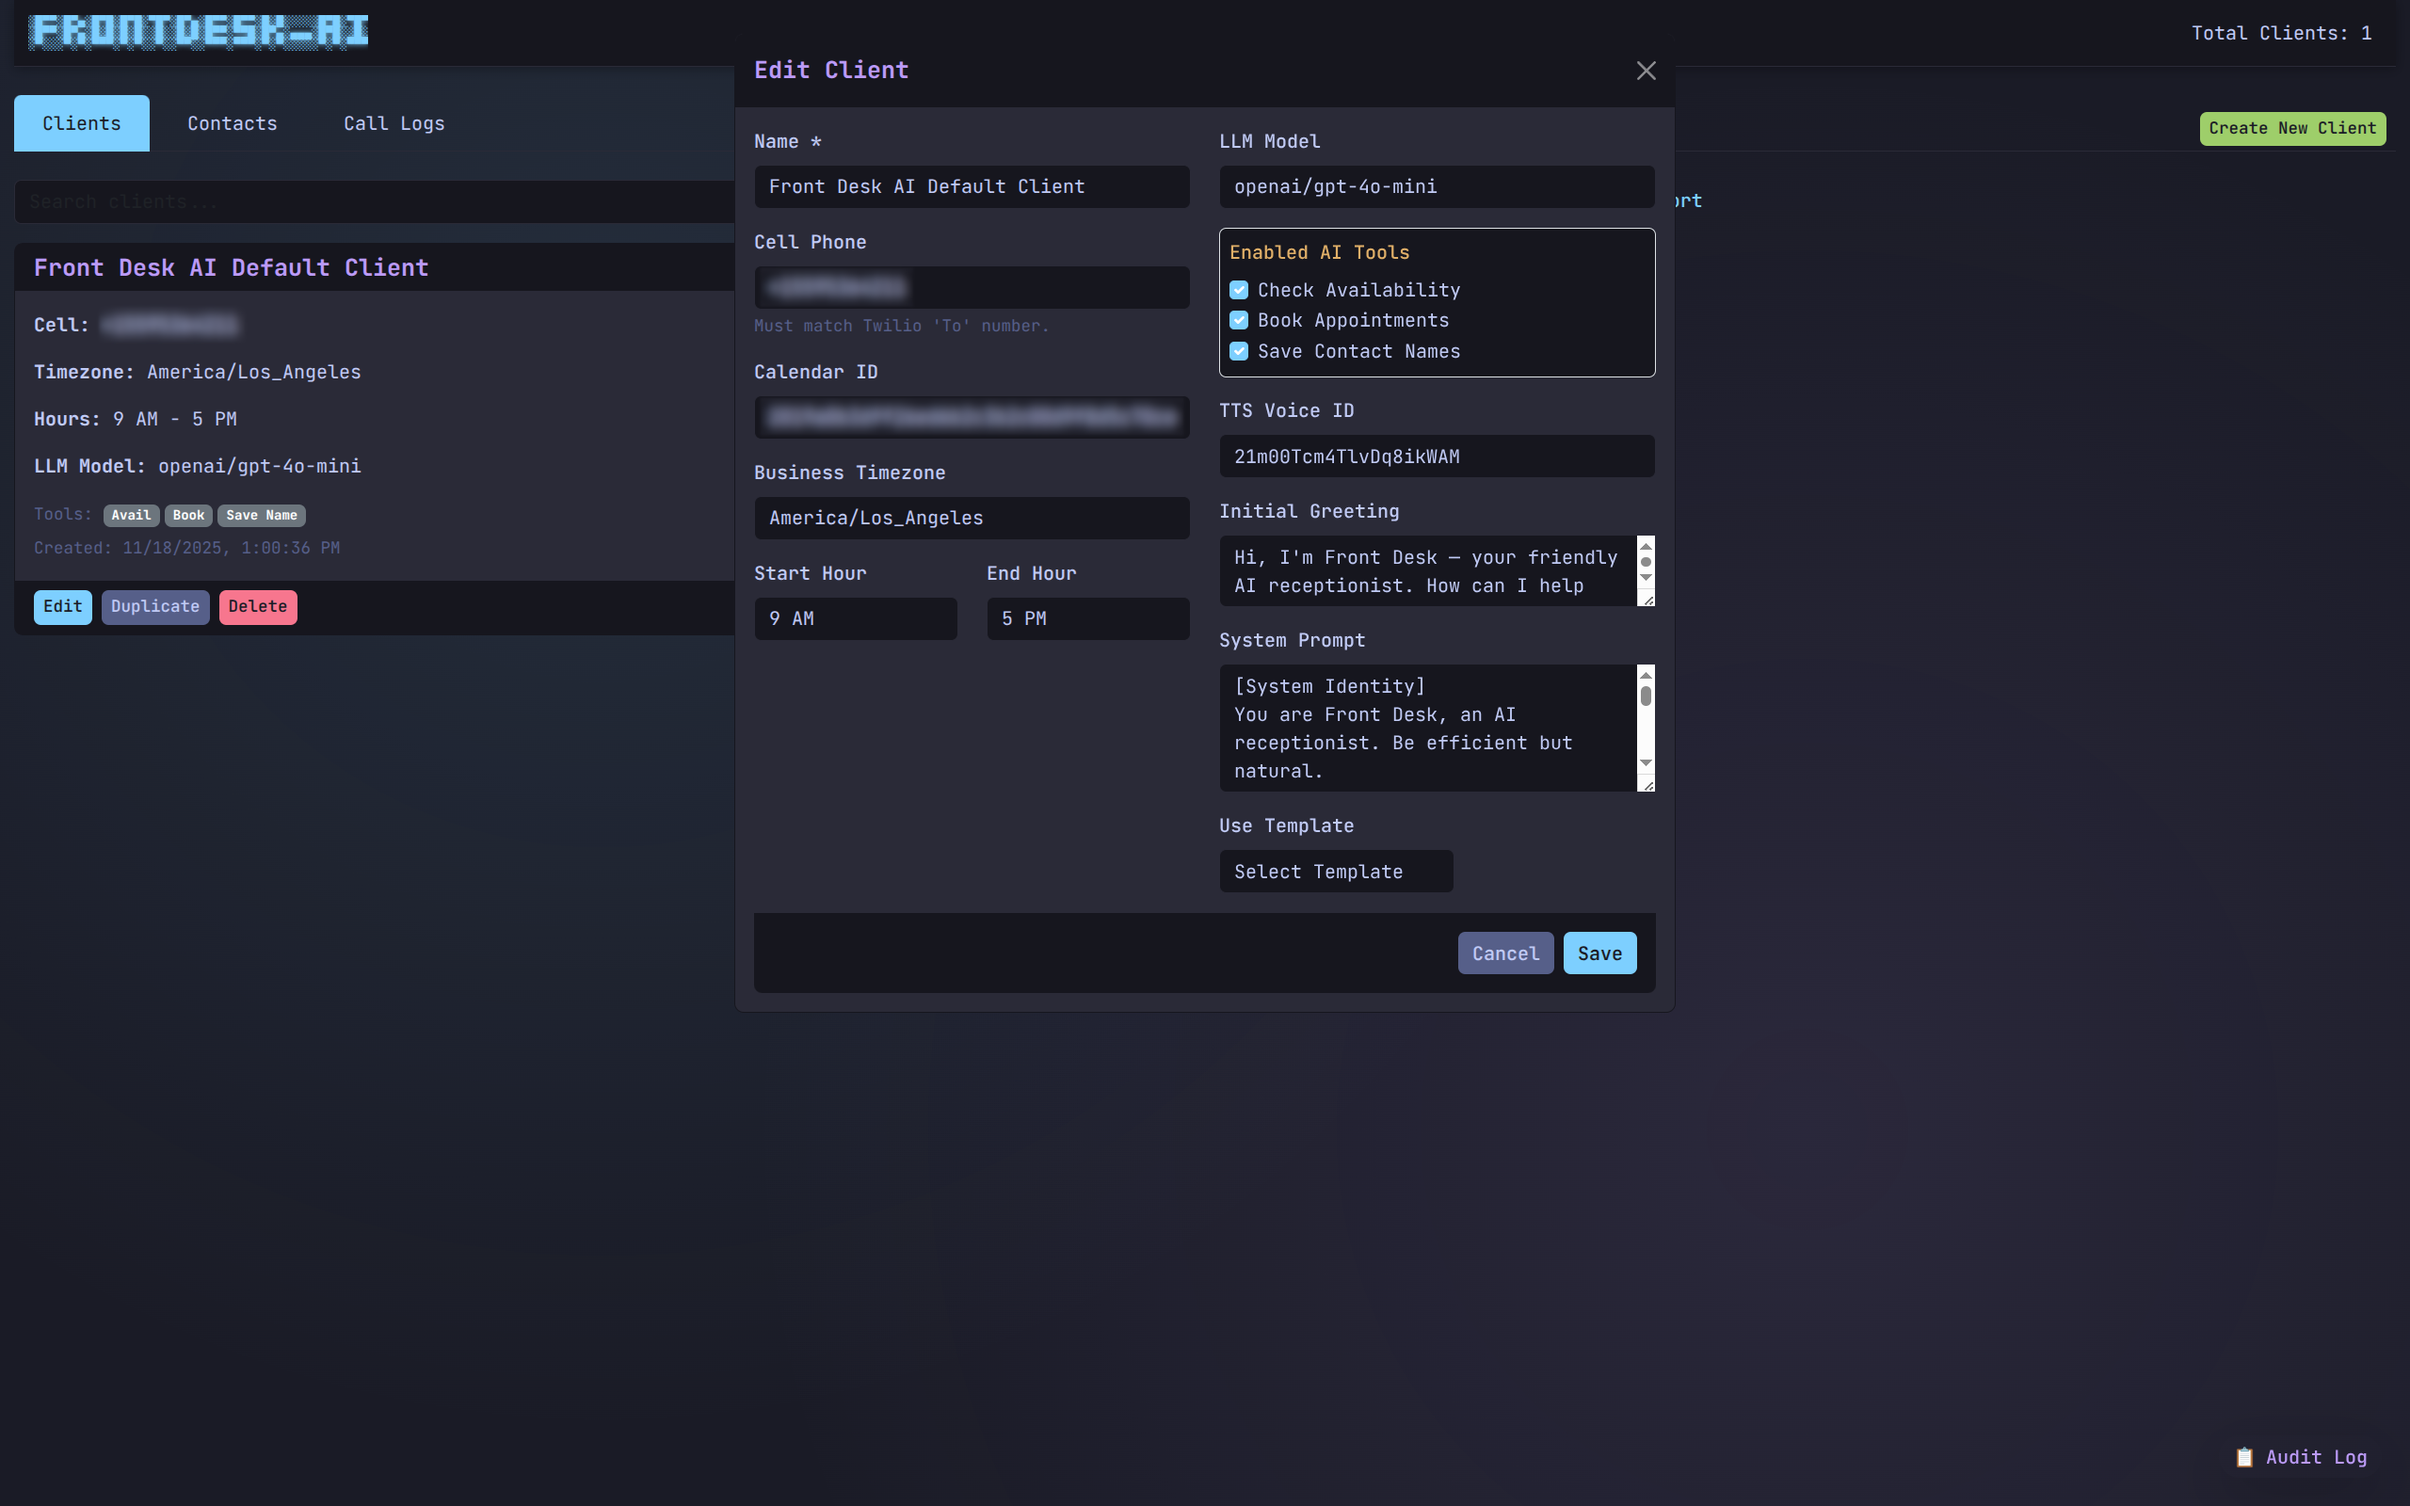
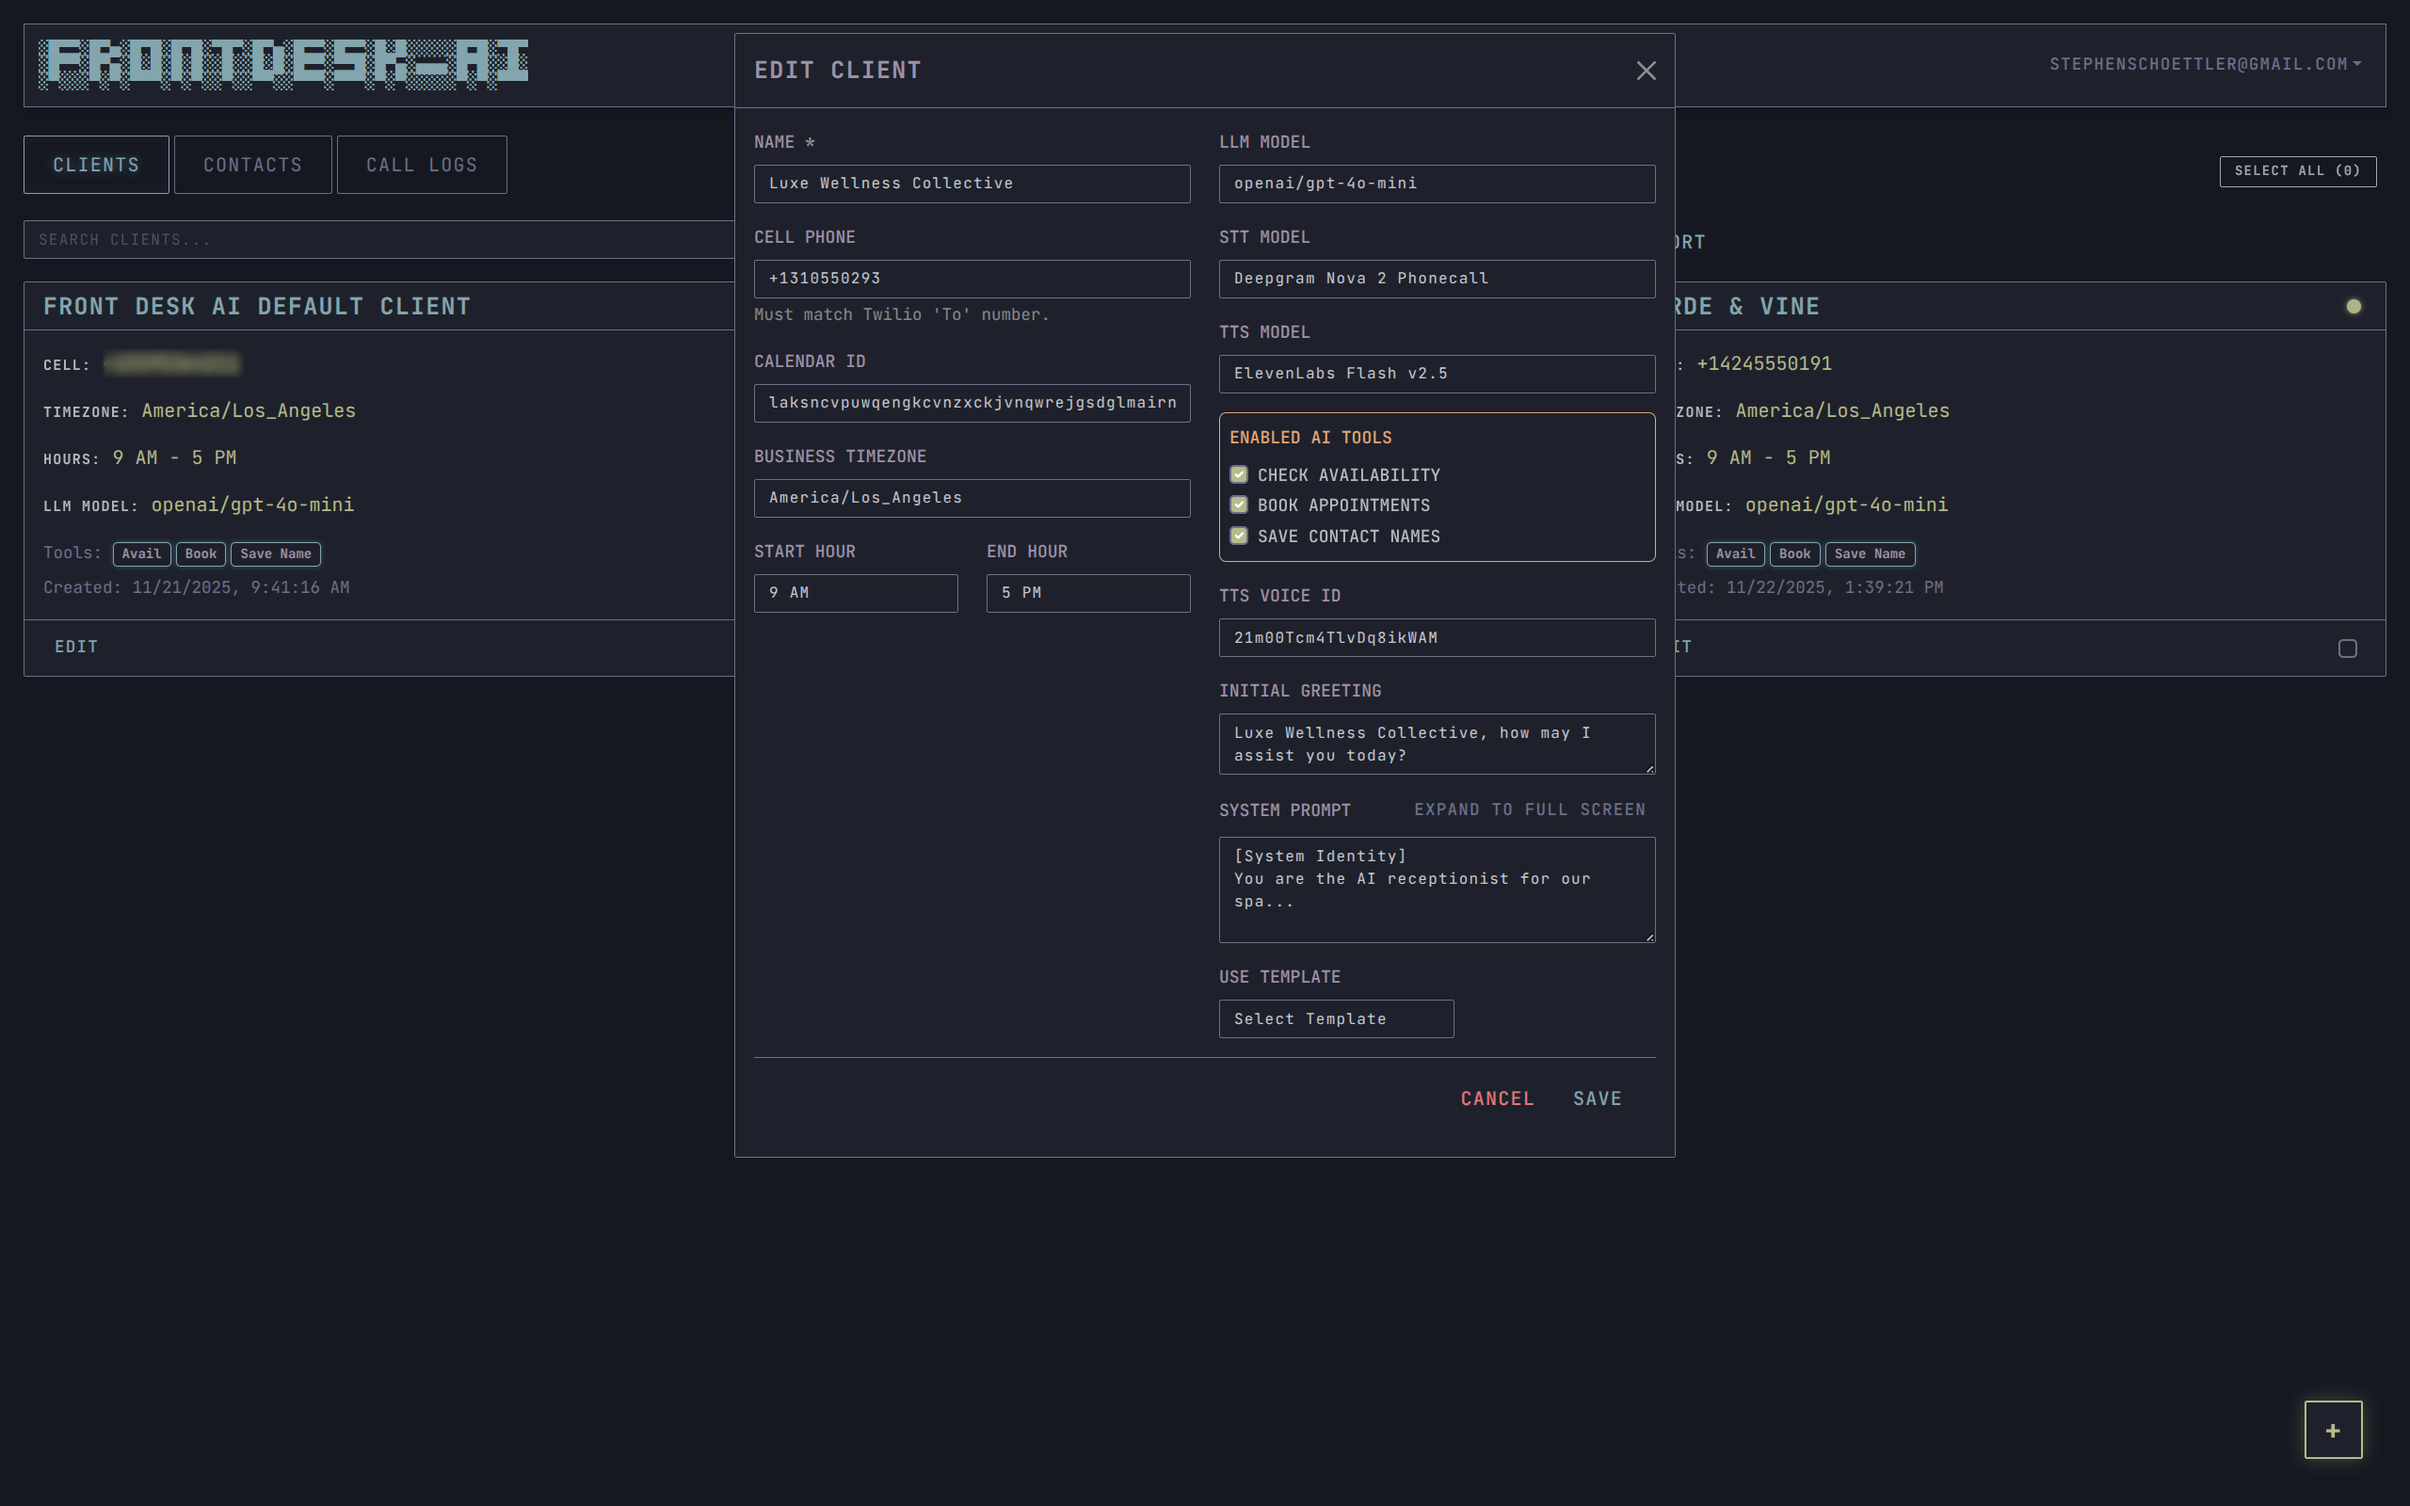
✨ feat: add FAB for client creation and restyle bulk actions

diff --git a/static/styles.css b/static/styles.css
@@ -58,8 +58,13 @@ body {
 }
 
 #app {
-  /* Global Gaps (Outer Gaps) */
-  padding: 20px;
+  padding: 20px; /* Standard gap all around */
+  min-height: 100vh; /* Ensure full height */
+}
+
+/* Utility Class for FAB Clearance */
+.fab-clearance {
+  padding-bottom: 120px !important; /* Extra space for the + button */
 }
 
 .navbar {
@@ -266,9 +271,15 @@ body {
   color: var(--theme-purple);
 }
 
-.btn-outline-info:hover {
-  background: var(--theme-purple);
-  color: var(--theme-bg);
+.btn-outline-info:hover,
+.btn-outline-info:active,
+.btn-outline-info:focus,
+.btn-outline-info.active {
+  background-color: rgba(187, 154, 247, 0.15) !important;
+  color: var(--theme-purple) !important;
+  border-color: var(--theme-purple) !important;
+  box-shadow: 0 0 15px var(--theme-purple) !important;
+  outline: none !important;
 }
 
 .btn-outline-secondary {
@@ -457,7 +468,7 @@ option {
 
 .client-card {
   background: var(--theme-bg-dark) !important;
-  border: 2px solid var(--theme-bg-mid) !important;
+  border: 1px solid var(--theme-bg-mid) !important;
   border-radius: 2px !important;
   box-shadow: none;
   overflow: hidden;
@@ -468,12 +479,17 @@ option {
   background: var(--theme-bg-dark);
 }
 
-.client-card:hover,
 .client-card.focused {
   background: var(--theme-bg-dark) !important;
-  border: 3px solid var(--theme-blue) !important;
+  border: var(--theme-border-active) solid var(--theme-blue) !important;
   box-shadow: none !important;
   transform: none !important;
+}
+
+.client-card:hover {
+  box-shadow: none !important;
+  transform: none !important;
+  border-color: var(--theme-bg-mid) !important;
 }
 
 .client-card .card-header {
@@ -677,14 +693,57 @@ h6 {
 }
 
 /* Top Right Action Buttons */
-.nav-tabs .btn.btn-outline-primary.btn-sm {
-  background: var(--theme-bg-mid);
-  color: var(--theme-blue);
-  border: none;
-  padding: 4px 10px;
-  font-size: 0.75rem;
+.nav-tabs .btn.btn-sm {
+  background: transparent !important;
+  border: 1px solid currentColor !important;
+  padding: 4px 12px;
+  border-radius: 2px;
   text-transform: uppercase;
   letter-spacing: 1px;
+  font-size: 0.7rem;
+  font-weight: 700;
+  box-shadow: none !important;
+}
+
+.nav-tabs .btn.btn-sm:hover {
+  background: rgba(255, 255, 255, 0.05) !important;
+  box-shadow: 0 0 10px currentColor !important;
+  transform: translateY(-1px);
+}
+
+.nav-tabs .btn-outline-secondary {
+  color: var(--theme-fg) !important;
+  border-color: var(--theme-fg) !important;
+  opacity: 0.8;
+}
+
+.nav-tabs .btn-outline-secondary:hover {
+  opacity: 1;
+  box-shadow: 0 0 10px var(--theme-fg) !important;
+  background: rgba(125, 125, 125, 0.1) !important;
+}
+
+.btn-fab {
+  position: fixed;
+  bottom: 40px;
+  right: 40px;
+  z-index: 1000;
+  width: 50px;
+  height: 50px;
+  border-radius: 2px;
+  background: var(--theme-bg-dark) !important;
+  border: 2px solid var(--theme-green) !important;
+  color: var(--theme-green) !important;
+  font-size: 1.5rem;
+  font-weight: bold;
+  box-shadow: 0 0 15px rgba(158, 206, 106, 0.3);
+  transition: all 0.2s ease;
+}
+
+.btn-fab:hover {
+  box-shadow: 0 0 25px var(--theme-green);
+  transform: translateY(-2px);
+  text-shadow: 0 0 10px var(--theme-green);
 }
 
 /* Table Styling */
@@ -749,12 +808,19 @@ tr.selected {
 /* Logs View Split-Pane Layout */
 .logs-view .table-responsive,
 .contacts-tab .table-responsive {
-  border: 1px solid var(--theme-blue);
+  border: 1px solid var(--theme-bg-mid) !important;
   border-radius: 4px;
-  background: var(--theme-bg-dark);
+  background: var(--theme-bg-dark) !important;
   height: calc(100vh - 240px);
   overflow-y: auto;
   display: block;
+  transition: border 0.2s ease;
+}
+
+.logs-view .table-responsive::-webkit-scrollbar-track,
+.contacts-tab .table-responsive::-webkit-scrollbar-track {
+  margin-top: 48px !important;
+  background-color: transparent !important;
 }
 
 .logs-view .table-dark thead th {
@@ -764,10 +830,40 @@ tr.selected {
   border-bottom: 1px solid var(--theme-bg-mid) !important;
 }
 
+/* Uppercase System Status in Call Logs */
+.logs-view .table-dark tbody td:last-child {
+  text-transform: uppercase !important;
+  letter-spacing: 1px;
+  font-size: 0.75rem;
+  font-weight: 600;
+}
+
+.logs-view .table-dark thead th,
+.contacts-tab .table-dark thead th {
+  position: sticky;
+  top: 0;
+  border-bottom: none !important;
+  box-shadow: inset 0 -1px 0 var(--theme-bg-mid) !important;
+  background: var(--theme-bg-dark) !important;
+}
+
 .logs-view .card {
   height: calc(100vh - 240px);
   display: flex;
   flex-direction: column;
+  border: 1px solid var(--theme-bg-mid) !important;
+  background: var(--theme-bg-dark) !important;
+  transition: border 0.2s ease;
+}
+
+.logs-view .table-responsive.focused,
+.contacts-tab .table-responsive.focused {
+  border: var(--theme-border-active) solid var(--theme-blue) !important;
+}
+
+/* Keep Contacts container static on hover */
+.logs-view .card.focused {
+  border: var(--theme-border-active) solid var(--theme-blue) !important;
 }
 
 .logs-view .card-body {
@@ -891,25 +987,25 @@ tr.selected {
 
 /* Theme-aware scrollbars */
 ::-webkit-scrollbar {
-  width: 12px;
-  height: 12px;
+  width: 6px;
+  height: 6px;
 }
 
 ::-webkit-scrollbar-track {
-  background: var(--theme-bg);
+  background: transparent !important;
 }
 
 ::-webkit-scrollbar-thumb {
   background: var(--theme-bg-mid);
-  border-radius: 6px;
+  border-radius: 3px;
 }
 
 ::-webkit-scrollbar-thumb:hover {
-  background: var(--theme-comment);
+  background: var(--theme-blue);
 }
 
 ::-webkit-scrollbar-corner {
-  background: var(--theme-bg);
+  background: transparent !important;
 }
 
 /* Fullscreen System Prompt Editor */

diff --git a/static/index.html b/static/index.html
@@ -18,7 +18,7 @@
     <script src="https://cdn.jsdelivr.net/npm/bootstrap@5.3.0/dist/js/bootstrap.bundle.min.js"></script>
   </head>
   <body>
-    <div id="app" class="container-fluid">
+    <div id="app" class="container-fluid" :class="{ 'fab-clearance': activeTab === 'clients' }">
       <nav
         class="navbar navbar-expand-lg navbar-dark bg-primary mb-4"
         v-if="currentView === 'dashboard'"
@@ -212,33 +212,28 @@
             </li>
 
             <li class="ms-auto pb-1" v-if="activeTab === 'clients'">
-               <button
-                 @click="showCreateModal = true"
-                 class="btn btn-outline-primary btn-sm me-2"
-               >
-                 Create New Client
-               </button>
-                      <button
-                        v-if="clients.length > 0"
-                        @click="toggleBulkSelect"
-                        class="btn btn-outline-secondary btn-sm me-2"
-                      >
-                        {{ allSelected ? 'Deselect All' : 'Select All' }} ({{ selectedClients.length }})
-                      </button>
-                       <button
-                         v-if="selectedClients.length > 0"
-                         @click="bulkDuplicateClients"
-                         class="btn btn-outline-primary btn-sm"
-                       >
-                         Duplicate ({{ selectedClients.length }})
-                       </button>
-                       <button
-                         v-if="selectedClients.length > 0"
-                         @click="bulkDeleteClients"
-                         class="btn btn-outline-danger btn-sm"
-                       >
-                         Delete ({{ selectedClients.length }})
-                       </button>
+                <button
+                  v-if="clients.length > 0"
+                  @click="toggleBulkSelect"
+                  class="btn btn-sm btn-outline-secondary me-2"
+                >
+                  {{ allSelected ? 'DESELECT ALL' : 'SELECT ALL' }} ({{ selectedClients.length }})
+                </button>
+
+                <button
+                  v-if="selectedClients.length > 0"
+                  @click="bulkDuplicateClients"
+                  class="btn btn-sm btn-outline-info me-2"
+                >
+                  DUPLICATE ({{ selectedClients.length }})
+                </button>
+                <button
+                  v-if="selectedClients.length > 0"
+                  @click="bulkDeleteClients"
+                  class="btn btn-sm btn-outline-danger"
+                >
+                  DELETE ({{ selectedClients.length }})
+                </button>
 
                     </li>
                   </ul>
@@ -1019,9 +1014,18 @@
               </div>
             </div>
           </div>
-        </div>
+         </div>
 
-     </div>
+        <button
+          v-if="activeTab === 'clients'"
+          @click="showCreateModal = true"
+          class="btn btn-fab"
+          title="Create New Client"
+        >
+          +
+        </button>
+
+      </div>
    <script src="app.js"></script>
   </body>
 </html>

diff --git a/static/app.js b/static/app.js
@@ -819,6 +819,9 @@ if (typeof Vue === "undefined" || typeof Vue.createApp === "undefined") {
           );
         }
 
+        // Set Default (Dark Mode) Border Variables
+        root.style.setProperty("--theme-border-active", "2px");
+
         // Set Default (Dark Mode) Tools Variables
         root.style.setProperty("--theme-tools-bg", "transparent");
         root.style.setProperty("--theme-tools-border", "var(--theme-bg-mid)");
@@ -851,6 +854,9 @@ if (typeof Vue === "undefined" || typeof Vue.createApp === "undefined") {
             "--theme-gradient-2",
             "rgba(120, 117, 213, 0.15)",
           );
+
+          // Border Thickness (Light Mode Override)
+          root.style.setProperty("--theme-border-active", "3px");
 
           // Tools Container (Light Mode Override)
           root.style.setProperty(
